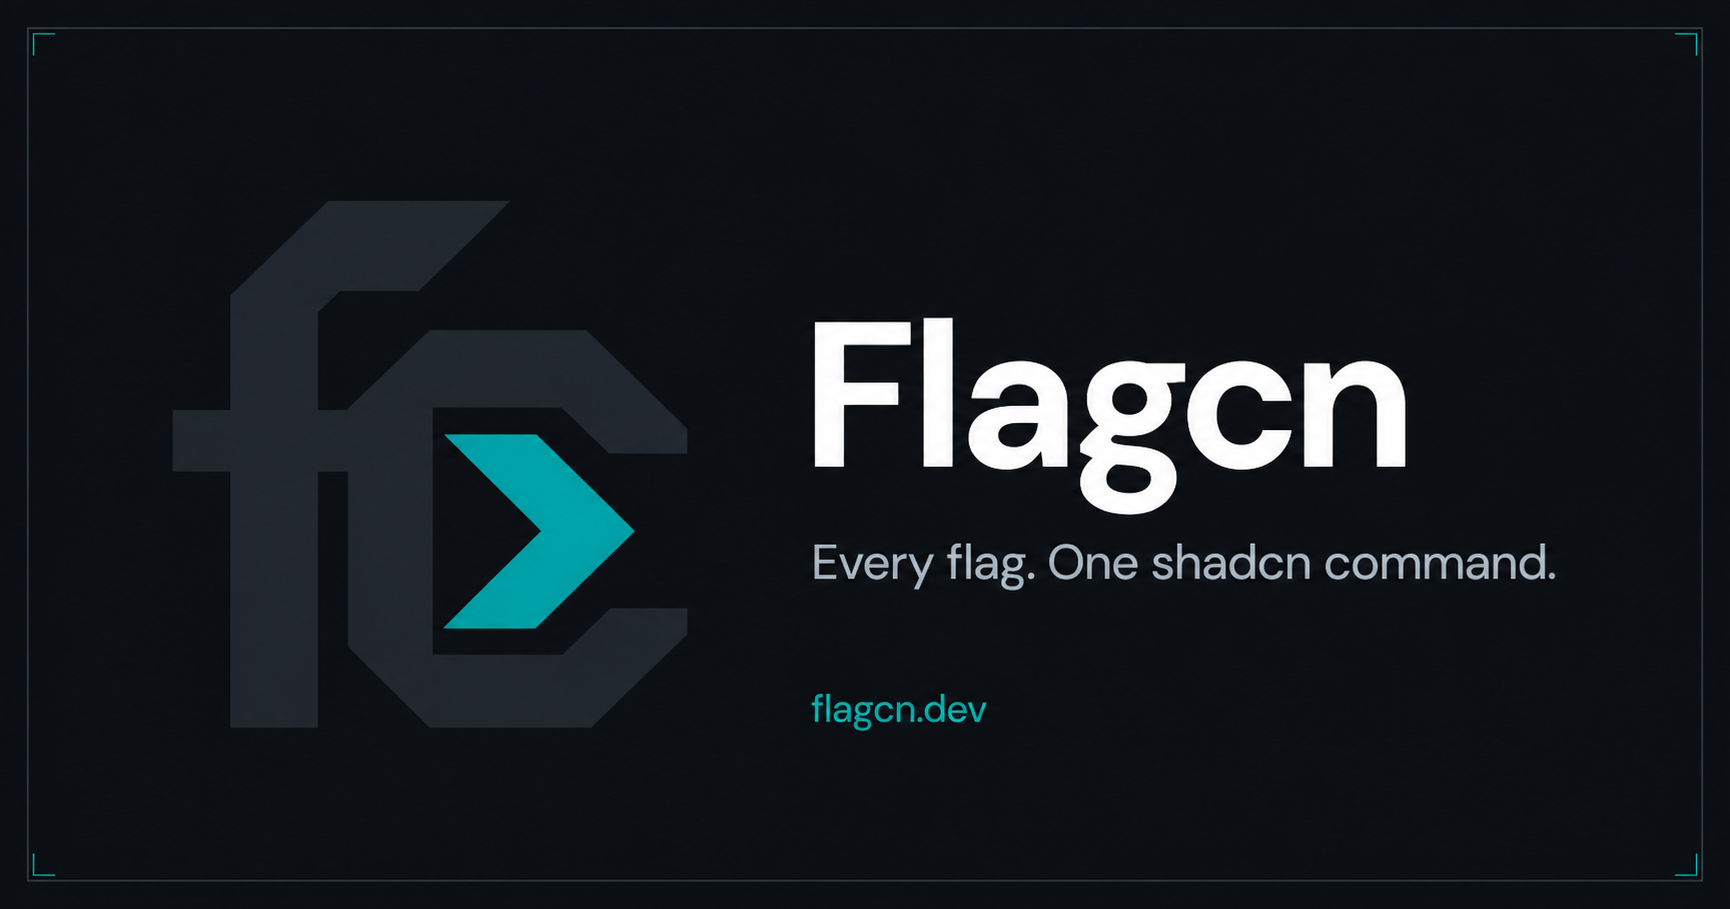
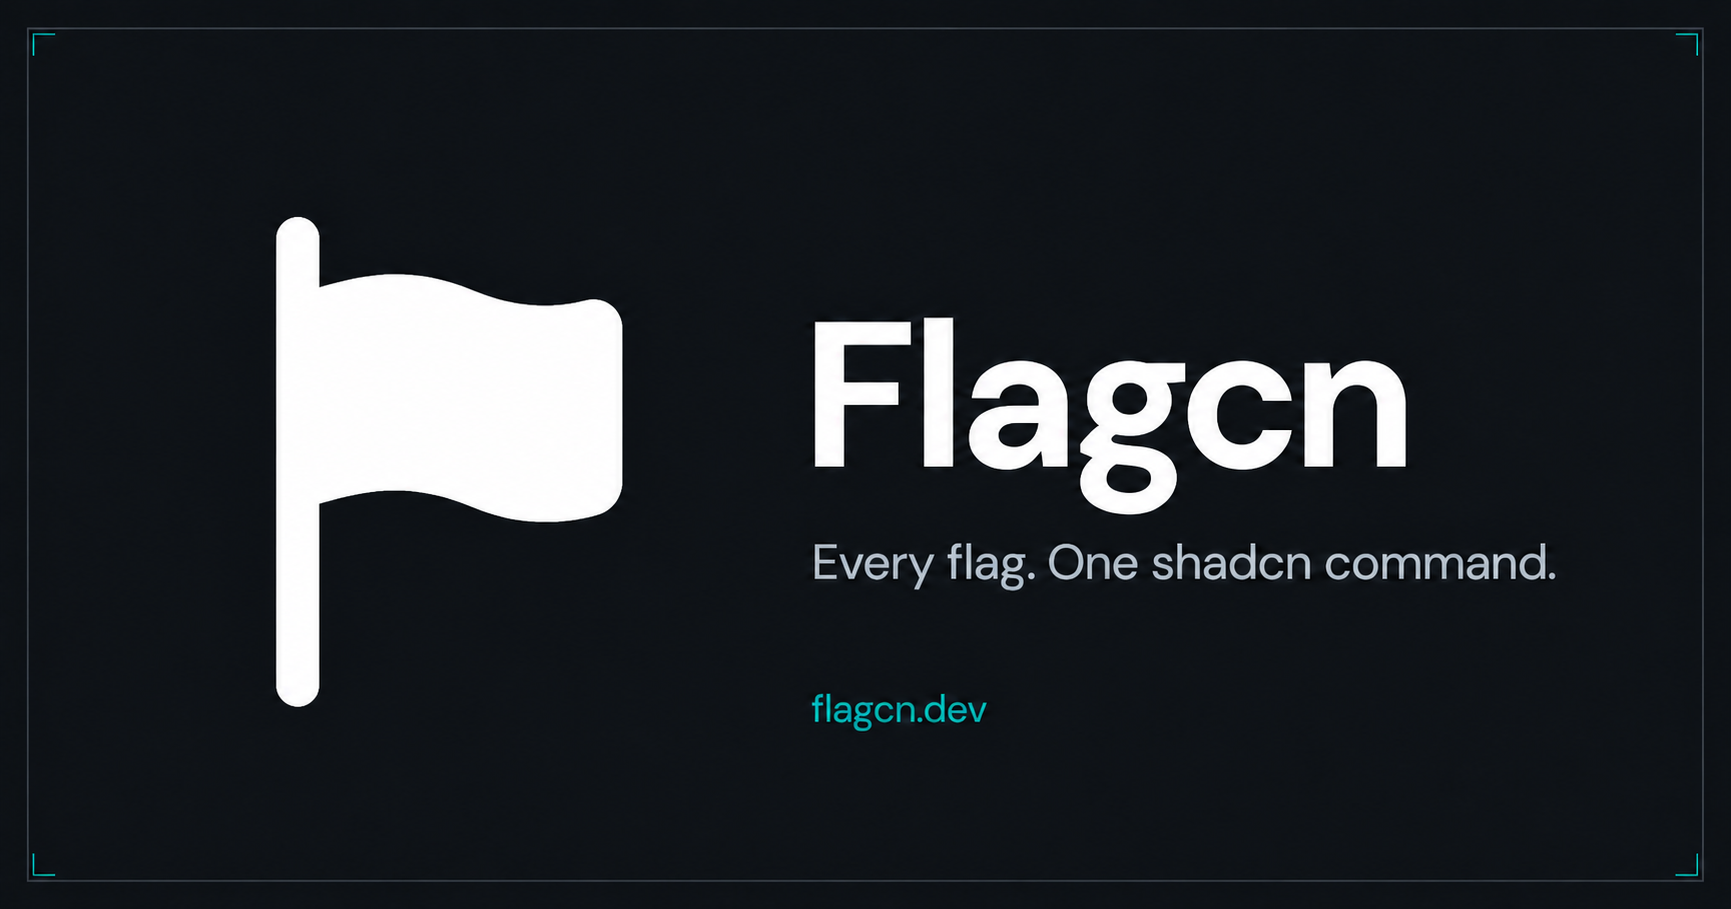
feat: refresh Flagcn branding and route SEO

diff --git a/index.html b/index.html
@@ -4,49 +4,74 @@
     <meta charset="UTF-8" />
     <meta name="viewport" content="width=device-width, initial-scale=1.0" />
     <meta name="theme-color" content="#181916" />
-    <meta name="description" content="Copy-owned, accessible country flags for shadcn/ui in SVG, PNG, WebP, and JPEG." />
+    <meta name="description" content="Install 306 accessible, source-owned React flag components with the shadcn CLI. Use SVG, PNG, WebP, or JPEG in 4:3, square, or original frames." />
     <meta name="keywords" content="shadcn flags, React flags, country flags, flag components, SVG flags, Flagcn" />
     <meta name="robots" content="index, follow, max-image-preview:large" />
     <meta name="color-scheme" content="dark light" />
     <meta name="author" content="Shadi Al Milhem" />
+    <meta name="creator" content="Shadi Al Milhem" />
     <script src="/theme-init.js"></script>
     <link rel="canonical" href="https://flagcn.dev/" />
+    <link rel="author" href="https://shadialmilhem.com" />
+    <link rel="license" href="https://flagcn.dev/docs/license" />
+    <link rel="sitemap" type="application/xml" href="https://flagcn.dev/sitemap.xml" />
     <meta property="og:type" content="website" />
+    <meta property="og:locale" content="en_US" />
     <meta property="og:site_name" content="Flagcn" />
-    <meta property="og:title" content="Flagcn: every flag, one shadcn command" />
-    <meta property="og:description" content="Install 306 accessible React flag components through the shadcn CLI. Four formats and no-crop 4:3, square, or original frames." />
+    <meta property="og:title" content="Flagcn: Accessible Flag Components for shadcn/ui" />
+    <meta property="og:description" content="Install 306 accessible, source-owned React flag components with the shadcn CLI. Use SVG, PNG, WebP, or JPEG in 4:3, square, or original frames." />
     <meta property="og:url" content="https://flagcn.dev/" />
     <meta property="og:image" content="https://flagcn.dev/og.png" />
-    <meta property="og:image:width" content="1730" />
+    <meta property="og:image:type" content="image/png" />
+    <meta property="og:image:width" content="1731" />
     <meta property="og:image:height" content="909" />
-    <meta property="og:image:alt" content="Flagcn — Every flag. One shadcn command." />
+    <meta property="og:image:alt" content="Flagcn: Every flag. One shadcn command." />
     <meta name="twitter:card" content="summary_large_image" />
-    <meta name="twitter:title" content="Flagcn: flags for shadcn/ui" />
-    <meta name="twitter:description" content="Copy-owned accessible flag components in SVG, PNG, WebP, and JPEG." />
+    <meta name="twitter:creator" content="@shadi_m02" />
+    <meta name="twitter:title" content="Flagcn: Accessible Flag Components for shadcn/ui" />
+    <meta name="twitter:description" content="Install 306 accessible, source-owned React flag components with the shadcn CLI. Use SVG, PNG, WebP, or JPEG in 4:3, square, or original frames." />
     <meta name="twitter:image" content="https://flagcn.dev/og.png" />
-    <meta name="twitter:image:alt" content="Flagcn — Every flag. One shadcn command." />
-    <link rel="icon" href="/flagcn-mark.png" type="image/png" />
-    <link rel="apple-touch-icon" href="/flagcn-mark.png" />
+    <meta name="twitter:image:alt" content="Flagcn: Every flag. One shadcn command." />
+    <link rel="icon" href="/favicon.svg" type="image/svg+xml" />
+    <link rel="icon" href="/flagcn-mark.png" type="image/png" sizes="1254x1254" />
+    <link rel="apple-touch-icon" href="/flagcn-mark.png" sizes="1254x1254" />
     <link rel="alternate" type="text/plain" href="/llms.txt" title="LLM index" />
-    <title>Flagcn: flags for shadcn/ui</title>
+    <title>Flagcn: Accessible Flag Components for shadcn/ui</title>
     <script type="application/ld+json">
       {
         "@context": "https://schema.org",
-        "@type": "SoftwareSourceCode",
-        "name": "Flagcn",
-        "description": "A shadcn registry for accessible React flag components in SVG, PNG, WebP, and JPEG.",
-        "programmingLanguage": ["TypeScript", "React"],
-        "runtimePlatform": "Web",
-        "license": "https://opensource.org/license/mit",
-        "url": "https://flagcn.dev/",
-        "codeRepository": "https://github.com/shadi-almilhem/flagcn",
-        "author": {
-          "@type": "Person",
-          "name": "Shadi Al Milhem",
-          "url": "https://flagcn.dev",
-          "sameAs": "https://x.com/shadi_m02"
-        },
-        "codeSampleType": "full"
+        "@graph": [
+          {
+            "@type": "WebSite",
+            "@id": "https://flagcn.dev/#website",
+            "name": "Flagcn",
+            "url": "https://flagcn.dev/",
+            "description": "An accessible React flag component registry for shadcn/ui.",
+            "inLanguage": "en"
+          },
+          {
+            "@type": "SoftwareSourceCode",
+            "@id": "https://flagcn.dev/#software",
+            "name": "Flagcn",
+            "description": "A shadcn registry for 306 accessible React flag components in SVG, PNG, WebP, and JPEG.",
+            "image": "https://flagcn.dev/og.png",
+            "programmingLanguage": ["TypeScript", "React"],
+            "runtimePlatform": "Web",
+            "license": "https://opensource.org/license/mit",
+            "url": "https://flagcn.dev/",
+            "codeRepository": "https://github.com/shadi-almilhem/flagcn",
+            "author": { "@id": "https://shadialmilhem.com/#person" },
+            "isPartOf": { "@id": "https://flagcn.dev/#website" },
+            "codeSampleType": "full"
+          },
+          {
+            "@type": "Person",
+            "@id": "https://shadialmilhem.com/#person",
+            "name": "Shadi Al Milhem",
+            "url": "https://shadialmilhem.com",
+            "sameAs": ["https://shadialmilhem.com", "https://x.com/shadi_m02"]
+          }
+        ]
       }
     </script>
   </head>

diff --git a/src/components/site/route-metadata.test.tsx b/src/components/site/route-metadata.test.tsx
@@ -1,0 +1,44 @@
+import { render, waitFor } from "@testing-library/react"
+import { beforeEach, describe, expect, it } from "vitest"
+import { MemoryRouter } from "react-router-dom"
+
+import { RouteMetadata } from "./route-metadata"
+
+describe("RouteMetadata", () => {
+  beforeEach(() => {
+    document.head.innerHTML = `
+      <meta name="description" content="">
+      <meta property="og:title" content="">
+      <meta property="og:description" content="">
+      <meta property="og:url" content="">
+      <meta name="twitter:title" content="">
+      <meta name="twitter:description" content="">
+      <link rel="canonical" href="">
+    `
+  })
+
+  it("sets unique metadata and a canonical URL for the current route", async () => {
+    render(
+      <MemoryRouter initialEntries={["/docs/flag"]}>
+        <RouteMetadata />
+      </MemoryRouter>,
+    )
+
+    await waitFor(() => {
+      expect(document.title).toBe("React Flag Component API and Props | Flagcn")
+    })
+
+    expect(document.querySelector('link[rel="canonical"]')).toHaveAttribute(
+      "href",
+      "https://flagcn.dev/docs/flag",
+    )
+    expect(document.querySelector('meta[property="og:url"]')).toHaveAttribute(
+      "content",
+      "https://flagcn.dev/docs/flag",
+    )
+    expect(document.querySelector('meta[name="description"]')).toHaveAttribute(
+      "content",
+      expect.stringContaining("typed Flag React component"),
+    )
+  })
+})

diff --git a/src/components/site/route-metadata.tsx b/src/components/site/route-metadata.tsx
@@ -1,0 +1,38 @@
+import * as React from "react"
+import { useLocation } from "react-router-dom"
+
+import routeSeo from "@/config/seo-routes.json"
+
+const siteOrigin = "https://flagcn.dev"
+
+type SeoEntry = {
+  title: string
+  description: string
+}
+
+const fallbackSeo = routeSeo["/"] satisfies SeoEntry
+
+export function RouteMetadata() {
+  const { pathname } = useLocation()
+
+  React.useEffect(() => {
+    const normalizedPath = pathname === "/" ? pathname : pathname.replace(/\/$/, "")
+    const seo = (routeSeo as Record<string, SeoEntry>)[normalizedPath] ?? fallbackSeo
+    const canonicalUrl = new URL(normalizedPath, siteOrigin).toString()
+
+    document.title = seo.title
+    setMeta('meta[name="description"]', "content", seo.description)
+    setMeta('meta[property="og:title"]', "content", seo.title)
+    setMeta('meta[property="og:description"]', "content", seo.description)
+    setMeta('meta[property="og:url"]', "content", canonicalUrl)
+    setMeta('meta[name="twitter:title"]', "content", seo.title)
+    setMeta('meta[name="twitter:description"]', "content", seo.description)
+    setMeta('link[rel="canonical"]', "href", canonicalUrl)
+  }, [pathname])
+
+  return null
+}
+
+function setMeta(selector: string, attribute: "content" | "href", value: string) {
+  document.querySelector<HTMLElement>(selector)?.setAttribute(attribute, value)
+}

diff --git a/src/pages/home-page.tsx b/src/pages/home-page.tsx
@@ -73,8 +73,8 @@ export function HomePage() {
 
           <div className="mt-12 grid w-full max-w-3xl grid-cols-6 border-s border-t sm:grid-cols-12" aria-label="A sample of available flags">
             {heroFlags.map((code) => (
-              <div key={code} className="grid h-14 place-items-center border-e border-b bg-card/70">
-                <Flag code={code} format="png" ratio="4x3" width={40} decorative className="h-5 w-7 object-contain ring-1 ring-border" />
+              <div key={code} className="aspect-[4/3] overflow-hidden border-e border-b bg-card/70">
+                <Flag code={code} format="svg" ratio="4x3" width={160} decorative className="size-full object-cover" />
                 <span className="sr-only">{flagNames[code]}</span>
               </div>
             ))}

diff --git a/src/app.tsx b/src/app.tsx
@@ -2,6 +2,7 @@ import { Route, Routes } from "react-router-dom"
 
 import { SiteFooter } from "@/components/site/site-footer"
 import { SiteHeader } from "@/components/site/site-header"
+import { RouteMetadata } from "@/components/site/route-metadata"
 import { DocsPage } from "@/pages/docs-page"
 import { FlagsPage } from "@/pages/flags-page"
 import { HomePage } from "@/pages/home-page"
@@ -10,6 +11,7 @@ import { NotFoundPage } from "@/pages/not-found-page"
 export function App() {
   return (
     <div className="min-h-screen bg-background text-foreground">
+      <RouteMetadata />
       <SiteHeader />
       <Routes>
         <Route path="/" element={<HomePage />} />

diff --git a/src/components/site/logo.tsx b/src/components/site/logo.tsx
@@ -5,7 +5,7 @@ import { cn } from "@/lib/utils"
 export function Logo({ className }: { className?: string }) {
   return (
     <Link to="/" className={cn("inline-flex items-center gap-2 font-mono text-[15px] font-semibold tracking-[-0.04em]", className)} aria-label="Flagcn home">
-      <img src="/flagcn-mark.png" alt="" width="24" height="24" className="size-6 object-contain dark:brightness-0 dark:invert" aria-hidden="true" />
+      <img src="/flagcn-mark.png" alt="" width="24" height="24" className="size-6 object-contain" aria-hidden="true" />
       <span><span className="text-primary" aria-hidden="true">@</span>flagcn</span>
     </Link>
   )

diff --git a/src/components/site/site-footer.tsx b/src/components/site/site-footer.tsx
@@ -15,7 +15,13 @@ export function SiteFooter() {
           </p>
           <p className="mt-4 text-sm text-muted-foreground">
             Made by{" "}
-            <a href={siteConfig.creator.website} className="font-medium text-foreground underline-offset-4 hover:underline">
+            <a
+              href={siteConfig.creator.website}
+              target="_blank"
+              rel="author me noreferrer"
+              title="Visit shadialmilhem.com"
+              className="font-medium text-foreground underline-offset-4 hover:underline"
+            >
               {siteConfig.creator.name}
             </a>
             {" · "}

diff --git a/src/config/site.ts b/src/config/site.ts
@@ -8,7 +8,7 @@ export const siteConfig = {
   github: import.meta.env.VITE_GITHUB_URL || "https://github.com/shadi-almilhem/flagcn",
   creator: {
     name: "Shadi Al Milhem",
-    website: "https://flagcn.dev",
+    website: "https://shadialmilhem.com",
     x: "https://x.com/shadi_m02",
     xHandle: "@shadi_m02",
   },

diff --git a/README.md b/README.md
@@ -2,7 +2,7 @@
 
 [![CI](https://github.com/shadi-almilhem/flagcn/actions/workflows/ci.yml/badge.svg)](https://github.com/shadi-almilhem/flagcn/actions/workflows/ci.yml)
 
-Made by [Shadi Al Milhem](https://flagcn.dev) · [@shadi_m02](https://x.com/shadi_m02)
+Made by [Shadi Al Milhem](https://shadialmilhem.com) · [@shadi_m02](https://x.com/shadi_m02)
 
 Flagcn is a source-owned shadcn registry for accessible flags. It ships a small React image primitive, a searchable picker, and one installable wrapper for every flag in the catalog. SVG assets use [Flag Icons](https://flagicons.lipis.dev/) in 4:3 and 1:1 variants. PNG, WebP, and JPEG assets use [Flagpedia's FlagCDN](https://flagpedia.net/download/api). U.S. state SVGs and original-proportion SVGs use FlagCDN as a documented fallback.
 
